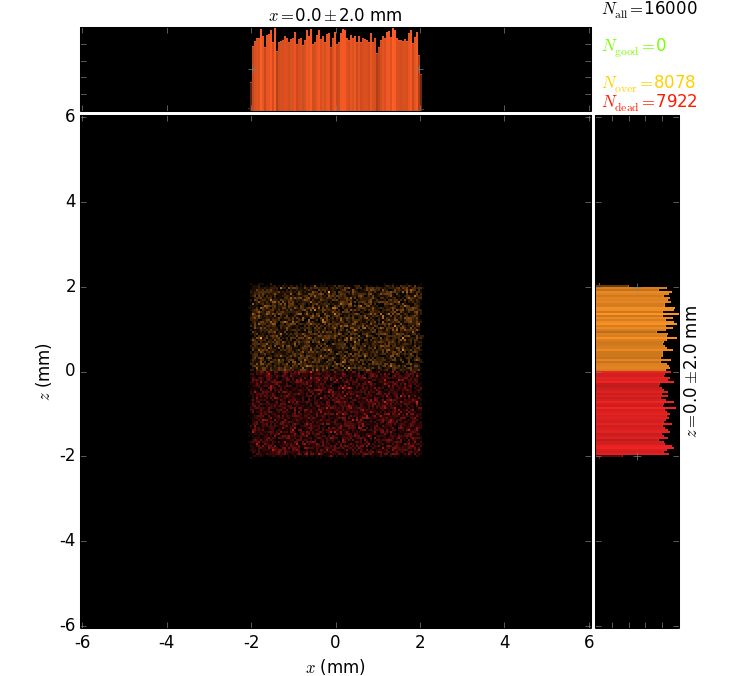
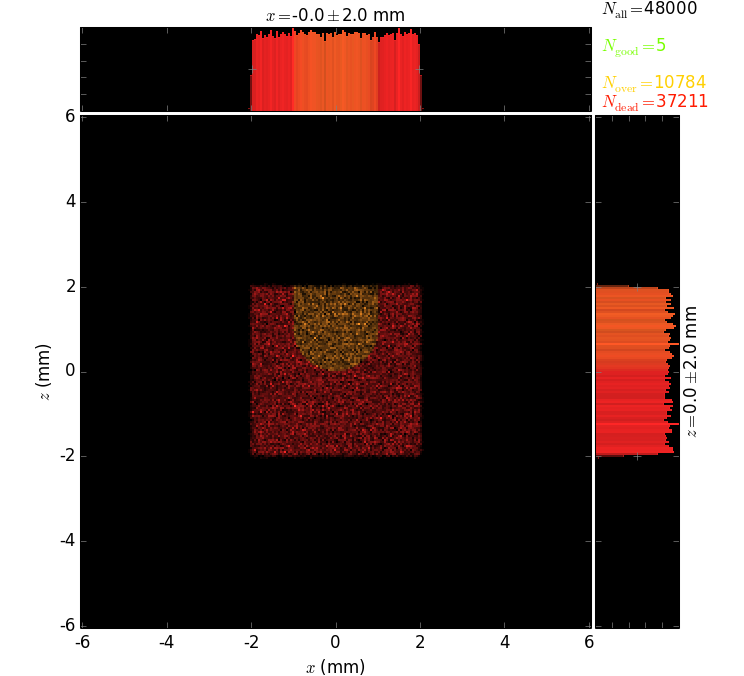
Minor progress on arbitrary and absorbing

diff --git a/object_testing.py b/object_testing.py
@@ -1,7 +1,7 @@
 """ 
 Copied from source viewer
 hoping for easy modifications for testing various
-object parameters and putting them directle between 
+object parameters and putting them directly between 
 source and detector
 """
 
@@ -16,6 +16,9 @@ import xrt.backends.raycing.materials as rm
 import xrt.plotter as xrtp
 import xrt.runner as xrtr
 import xrt.backends.raycing.screens as rsc
+
+# Import custom shaped object
+from customobjects import CustomShape
 
 """ WELL DOCUMENTED PARAMETERS """
 repeats = 1e4   # liczba
@@ -76,17 +79,21 @@ def build_beamline(nrays=1000):
         ]
 
     shape = [(v[0] - 1.5, v[1]) for v in shape]
-    shape = [(0.3*v[0], 0.3*v[1]) for v in shape]
+    shape = [(0.1*v[0], 0.1*v[1]) for v in shape]
 
     # Set position and thickness
-    limPhysY = [38.0, 38.1]
+    limPhysY = [39.9, 39.95]
+    limPhysX = [-1.0, 1.0]
 
     # Tested material
     mGold = rm.Material('Au', rho=19.3)
 
-    thing = roe.OE(beamLine, 'thing', material=mGold,\
-                   shape=shape, limPhysY=limPhysY,\
-                   roll=0*np.pi/3.)
+#    thing = roe.OE(beamLine, 'thing', material=mGold,\
+#                   shape=shape, limPhysY=limPhysY,\
+#                   roll=0*np.pi/3., limPhysX=limPhysX)
+    thing = CustomShape(beamLine, 'thing', material=mGold,\
+                   R = 1.0, limPhysY=limPhysY,\
+                   roll=0*np.pi/3., limPhysX=limPhysX)
     
     # Contain
     beamLine.things.append(thing)
@@ -110,7 +117,6 @@ def run_process(beamLine, shineOnly1stSource=False):
     # Global and local beams
     glob, loca = beamLine.things[0].reflect(beamSource)
 
-    
 
     # Exposing screen to the beam
     outBeam = beamLine.myScreens[0].expose(glob)
@@ -136,11 +142,9 @@ def main():
 
     # Names
     plot.baseName = 'dist_' + str(1000 + D_)
-    plot.saveName = 'png/source/' + plot.baseName + '.png'
-
+    plot.saveName = 'png/object/' + plot.baseName + '.png'
 
     plots.append(plot)
-
 
     xrtr.run_ray_tracing(plots, repeats=repeats,\
                          beamLine=beamLine,\

diff --git a/customobjects.py b/customobjects.py
@@ -1,32 +1,48 @@
+import numpy as np
+import xrt.backends.raycing.oes as roe
 import matplotlib.pyplot as plt
 from matplotlib.path import Path
 import matplotlib.patches as patches
 
-verts = [
-    (0., 0.), # left, bottom
-    (0., 3.), # left, top
-    (1., 3.), # right, top
-    (1., 1.),
-    (2., 1.),
-    (2., 3.),
-    (3., 3.),
-    (3., 0.),
-    (2., 0.), # right, bottom
-    (2., -2),
-    (1., -2),
-    (1., 0.),
-    (0., 0.), # ignored
-    ]
+class CustomShape(roe.OE):
+    def __init__(self, *args, **kwargs):
+        self.R = kwargs.pop('R', 0.5)
+        roe.OE.__init__(self, *args, **kwargs)
+    def local_n(self, x, y):
+        a = - x/self.R
+        b = np.zeros_like(y)
+        c = (self.R**2 - x**2)**(0.5) / self.R
+        return a, b, c
 
-verts = [(v[0] - 1.5, v[1]) for v in verts]
-verts = [(0.3*v[0], 0.3*v[1]) for v in verts]
+    def local_z(self, x, y):
+        return self.R - np.sqrt(self.R**2 - x**2)
 
-path = Path(verts)
+if __name__ == '__main__':
+    verts = [
+        (0., 0.), # left, bottom
+        (0., 3.), # left, top
+        (1., 3.), # right, top
+        (1., 1.),
+        (2., 1.),
+        (2., 3.),
+        (3., 3.),
+        (3., 0.),
+        (2., 0.), # right, bottom
+        (2., -2),
+        (1., -2),
+        (1., 0.),
+        (0., 0.), # ignored
+        ]
 
-fig = plt.figure()
-ax = fig.add_subplot(111)
-patch = patches.PathPatch(path, facecolor='orange', lw=2)
-ax.add_patch(patch)
-ax.set_xlim(-4,4)
-ax.set_ylim(-4,4)
-plt.show()
+    verts = [(v[0] - 1.5, v[1]) for v in verts]
+    verts = [(0.1*v[0], 0.1*v[1]) for v in verts]
+
+    path = Path(verts)
+
+    fig = plt.figure()
+    ax = fig.add_subplot(111)
+    patch = patches.PathPatch(path, facecolor='orange', lw=2)
+    ax.add_patch(patch)
+    ax.set_xlim(-4,4)
+    ax.set_ylim(-4,4)
+    plt.show()
